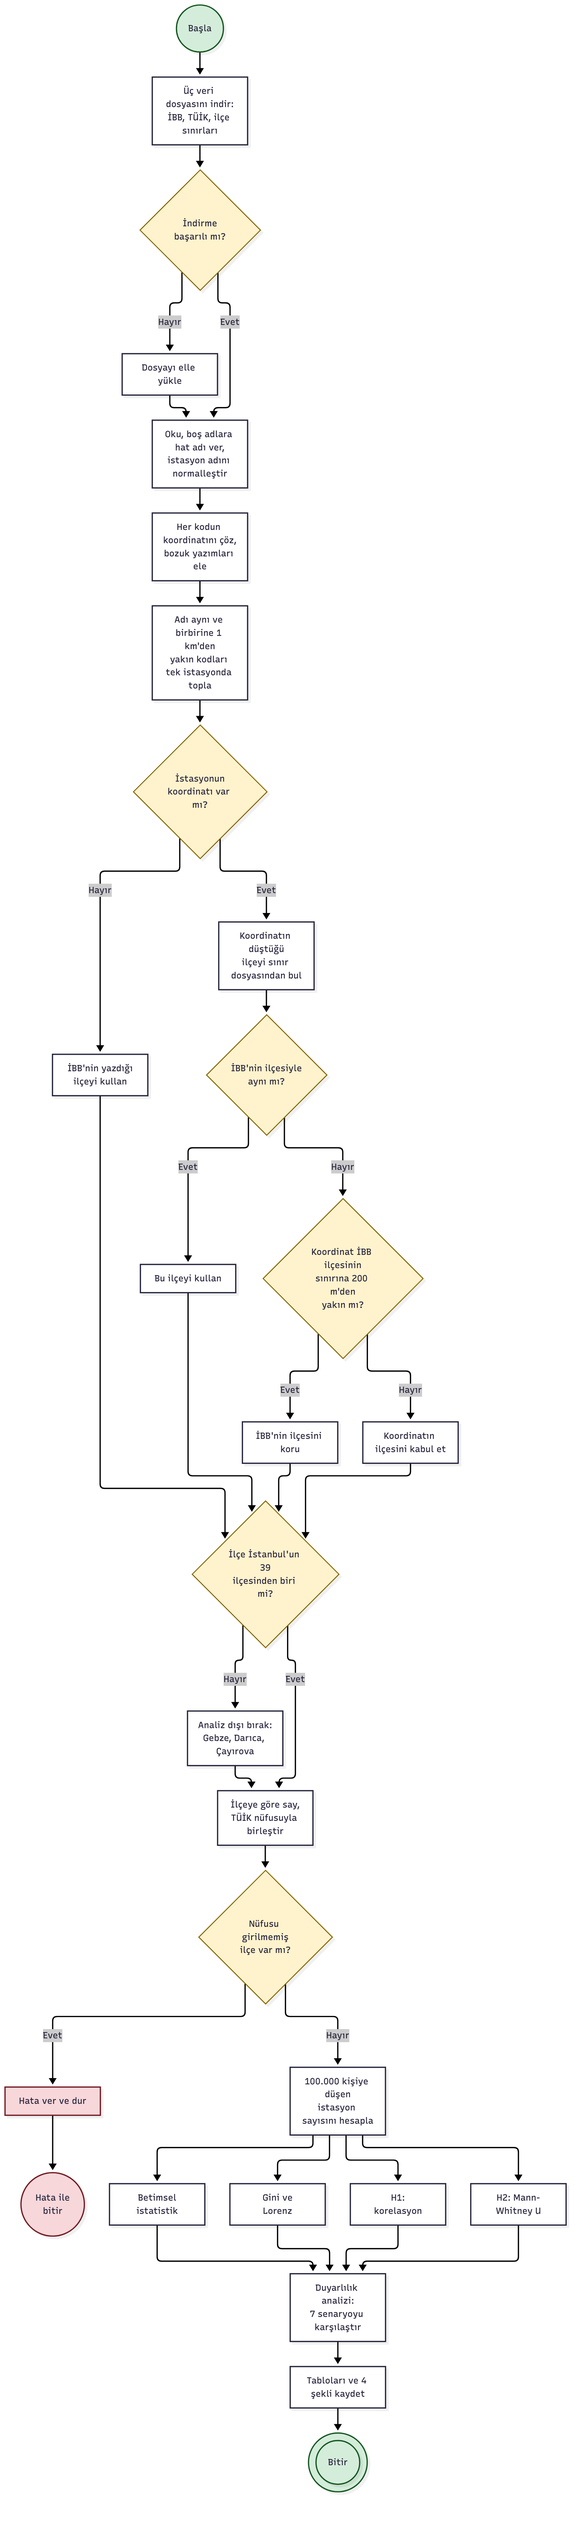
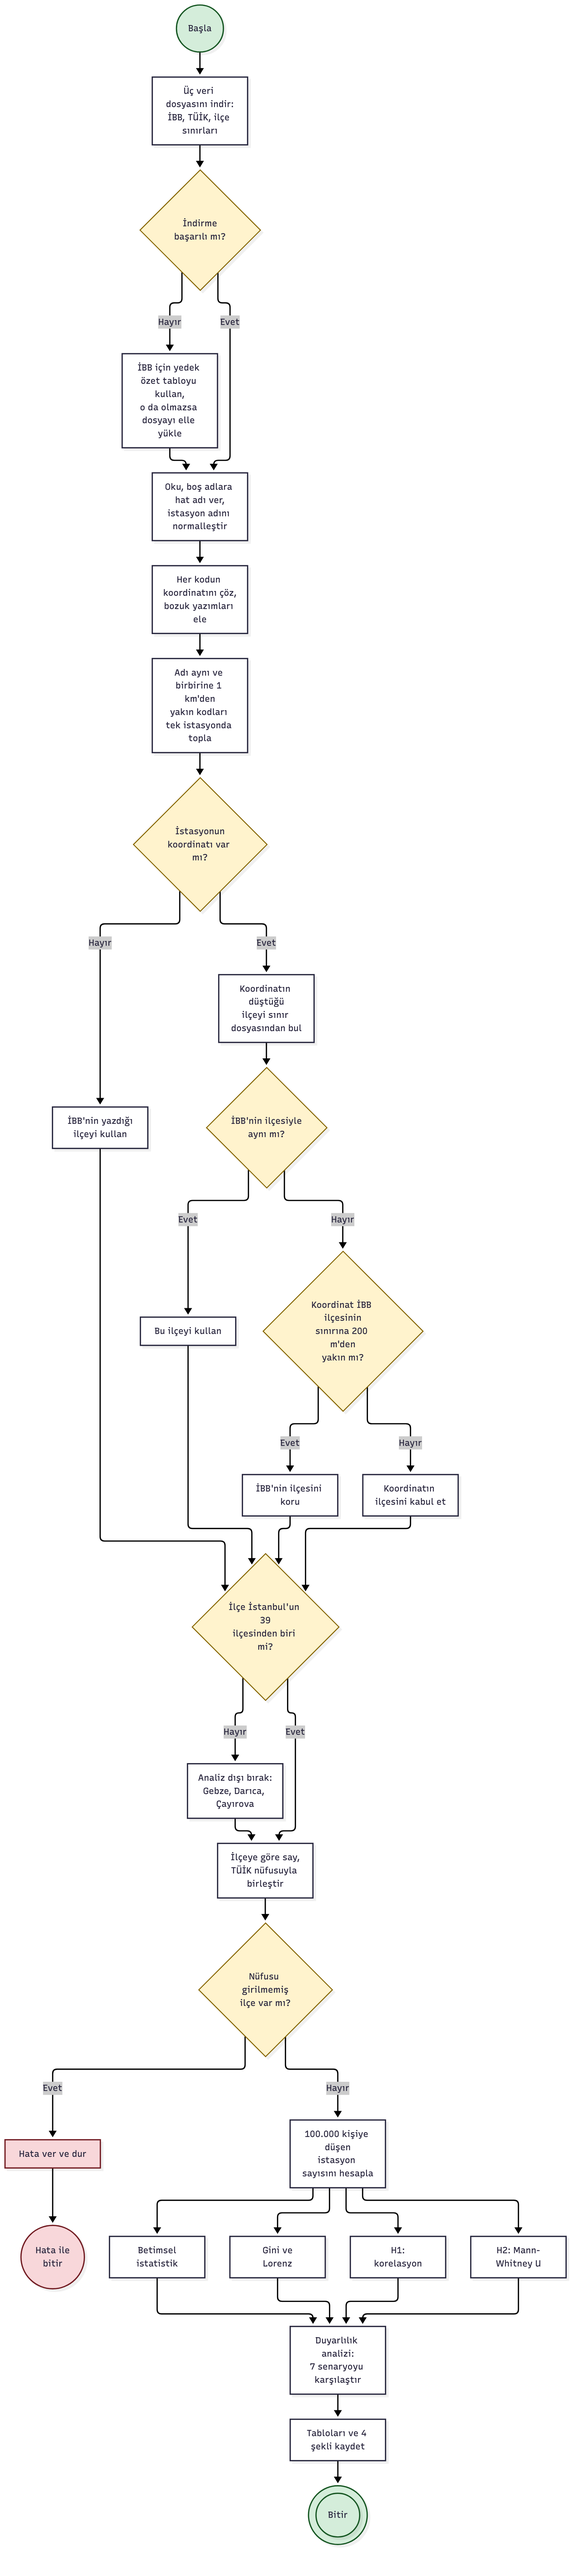
README, veri/README ve UML: yedek özet tablo, Colab'da İBB bağlantı sorunu belgelendi (#16)

diff --git a/README.md b/README.md
@@ -188,7 +188,9 @@ Yöntem, literatür taraması ilerledikçe değişebilir.
 
 Dosyaların nereden indirildiği, hangi sütunların kullanıldığı ve verideki sorunlar
 [`veri/README.md`](veri/README.md) dosyasında yazıyor. Ham veri dosyaları büyük olduğu için depoya
-yüklenmedi; not defteri bunları kaynağından kendisi indiriyor.
+yüklenmedi; not defteri bunları kaynağından kendisi indiriyor. İBB sunucusuna ulaşılamazsa kullanılmak üzere, İBB
+dosyasının kullandığım altı sütununun satır sayılarıyla özetlenmiş hâli depoda duruyor
+([`veri/istasyon_ozet.csv`](veri/istasyon_ozet.csv), 33 KB).
 
 ## 11. Etik
 
@@ -204,7 +206,9 @@ yapılmıyor, bu yüzden katılımcı onamı ve etik kurul izni gerektiren bir d
   yılı ve lisansı yukarıdaki tabloda ve [`veri/README.md`](veri/README.md) dosyasında yazıyor. Bu
   çalışma İBB, TÜİK, OpenStreetMap ya da geoBoundaries tarafından onaylanmamıştır.
 - **Veri izinsiz yeniden yayımlanmıyor.** Ham dosyalar ve ilçe sınırları depoya yüklenmedi; yerine indirme
-  bağlantısı verildi (bkz. [`veri/README.md`](veri/README.md)).
+  bağlantısı verildi (bkz. [`veri/README.md`](veri/README.md)). Depoda yalnızca İBB dosyasının altı
+  sütununun özeti (kopyalamaya ve uyarlamaya kaynak gösterilerek izin veren İBB Açık Veri Lisansı
+  kapsamında, 33 KB) ve TÜİK'ten alınan 39 nüfus değeri var.
 - **Depoda kişisel bilgi tutulmuyor.** Öğrenci numarası, telefon ve e-posta gibi bilgiler depoya
   konmuyor.
 - **Gizli bilgi yok.** Depoda ve Colab not defterinde şifre, API anahtarı ya da erişim anahtarı
@@ -415,8 +419,7 @@ nüfus değil, ilçenin kent merkezine ve istihdam alanlarına göre konumu olab
 **Google Colab'da (önerilen):** Üstteki *Colab'da aç* düğmesine ya da [şu bağlantıya](https://colab.research.google.com/github/yunusyegen/istanbul-rayli-sistem-erisim/blob/main/analiz/analiz.ipynb) tıklayın,
 sonra *Çalışma zamanı → Tümünü çalıştır* deyin. Defter üç veri dosyasını kaynağından kendisi indiriyor
 (yaklaşık yarım dakika) ve sonuçları tek bir `sonuclar.zip` dosyası olarak indirtiyor. Hiçbir hesaba
-giriş yapılmıyor, Drive'a bağlanılmıyor. Bir indirme başarısız olursa yalnızca o dosyayı elle seçmeniz
-isteniyor.
+giriş yapılmıyor, Drive'a bağlanılmıyor. İBB sunucusuna ulaşılamazsa (Colab'daki ilk denememde bağlanılamadı) defter depodaki yedek özet tabloyu (`veri/istasyon_ozet.csv`) kullanıyor ve sonuçlar aynı çıkıyor. Başka bir indirme başarısız olursa yalnızca o dosyayı elle seçmeniz isteniyor.
 
 **Kendi bilgisayarınızda:** Depoyu klonlayın, `pip install pandas numpy scipy matplotlib shapely jupyter`
 ile kütüphaneleri kurun ve `analiz/analiz.ipynb` dosyasını Jupyter'de çalıştırın. Veri dosyaları yoksa
@@ -434,6 +437,7 @@ istanbul-rayli-sistem-erisim/
 ├── veri/
 │   ├── README.md           veri kaynakları, lisanslar ve indirme bağlantıları
 │   ├── ilce_nufus.csv      39 ilçenin yakası ve TÜİK nüfusu
+│   ├── istasyon_ozet.csv   İBB verisinin altı sütununun özeti (yedek)
 │   ├── ham/                indirilen ham dosyalar (depoya yüklenmiyor)
 │   └── islenmis/           ilce_erisim.csv, istasyon_listesi.csv, duyarlilik_analizi.csv
 ├── analiz/
@@ -477,7 +481,7 @@ Bu çıktı tamamlandı (bkz. 13. İlk bulgular).
 | 3 | Veri kaynakları belirlendi, İBB ve TÜİK dosyaları indirildi |
 | 4 | GitHub deposu kuruldu, README yazıldı, veri temizlendi ve ilk analiz yapıldı, 15 Issue ile Kanban panosu hazırlandı, 6 kaynak okunup literatür tablosu dolduruldu, Gini katsayısı ve duyarlılık analizi eklendi |
 | 5 | Use Case, Activity ve Class diyagramları hazırlandı ve depoya eklendi |
-| 6 | Not defteri Colab'da tek tıkla çalışacak şekilde yeniden düzenlendi (veriyi kaynağından kendisi indiriyor). İstasyonların ilçesi koordinatla doğrulandı ve 13 belirsiz istasyon sorunu çözüldü (#6). Toplam/ortalama tablosu ve yorum eklendi. Veri güvenliği ve lisans kontrolü yapıldı |
+| 6 | Not defteri Colab'da tek tıkla çalışacak şekilde yeniden düzenlendi (veriyi kaynağından kendisi indiriyor). İstasyonların ilçesi koordinatla doğrulandı ve 13 belirsiz istasyon sorunu çözüldü (#6). Toplam/ortalama tablosu ve yorum eklendi. Veri güvenliği ve lisans kontrolü yapıldı. Defteri gerçek Colab'da denediğimde İBB sunucusuna bağlanılamadığını gördüm, bu yüzden yedek özet tablo eklendi |
 
 ## 19. Proje yönetimi
 

diff --git a/veri/README.md b/veri/README.md
@@ -9,6 +9,9 @@ Bu klasörde verinin nereden geldiği ve nasıl kullanıldığı anlatılıyor.
   bağlantıları kullanın.
 - `islenmis/` : Not defterinin ürettiği tablolar (bkz. 4. bölüm).
 - `ilce_nufus.csv` : 39 ilçenin yakası ve TÜİK nüfusu. Elle dolduruldu.
+- `istasyon_ozet.csv` : İBB dosyasının analizde kullanılan altı sütununun, aynı değerlere sahip satır
+  sayılarıyla özetlenmiş hâli (135.783 satır yerine 382 satır, 33 KB). İBB sunucusuna ulaşılamazsa not
+  defteri bunu kullanıyor.
 
 ## 1. Raylı sistem istasyon verisi (İBB)
 
@@ -41,6 +44,15 @@ Dosyadaki sütunlar:
 Bu projede yolcu sayısı değil, istasyonun kendisi kullanılıyor: adı, hattı, kodu, İBB'nin yazdığı
 ilçe ve koordinatı. Dosyada kişiye ait bilgi yok: kayıtlar istasyon ve gün bazında toplulaştırılmış
 sayılar ile istasyon konumlarından oluşuyor. Ad, kimlik, adres gibi bir alan bulunmuyor.
+
+**Yedek özet tablo.** Not defterini Colab'da ilk denediğimde İBB sunucusuna bağlanılamadı (bu makineden
+aynı adres bir saniyede açılıyor). Hoca da defteri Colab'dan çalıştıracağı için tek bir sunucuya bağımlı
+kalmamak istedim. `istasyon_ozet.csv`, İBB dosyasındaki altı sütunu (`station_name`, `town`, `line`,
+`station_number`, `longitude`, `latitude`) ve her değer kombinasyonunun kaç satırda geçtiğini (`satir_sayisi`)
+içeriyor. Yolcu sayıları ve tarihler yok, bu yüzden kişiye ait bilgi de yok. Not defteri bu tabloyu çoğaltıp
+ham tabloyu geri kuruyor ve sonuçların aynı çıktığını iki yolla doğruladım: tablonun geri kurulmuş hâli ham
+dosyayla her satır için birebir aynı, iki çalıştırmanın çıktı dosyaları da bayt bayt aynı. İBB Açık Veri
+Lisansı kopyalamaya ve uyarlamaya kaynak gösterilerek izin verdiği için bu özeti depoya koydum (5. bölüm).
 
 ### Veride fark ettiğim sorunlar
 
@@ -129,6 +141,7 @@ OpenStreetMap kaynaklı olduğu için birkaç on metre sapabilir.
 | `islenmis/ilce_erisim.csv` | İlçe, yaka, nüfus, istasyon sayısı ve 100.000 kişiye düşen istasyon sayısı |
 | `islenmis/istasyon_listesi.csv` | Analize giren 322 istasyonun her biri: ilçesi, İBB'nin yazdığı ilçe, ilçe kararının dayanağı, sınıra uzaklık, kodları ve hatları |
 | `islenmis/duyarlilik_analizi.csv` | Verdiğim kararları değiştirince sonucun nasıl değiştiği (7 senaryo) |
+| `istasyon_ozet.csv` | İBB dosyasındaki altı sütunun satır sayılarıyla özeti. İBB dosyası okunduğunda defter bunu yeniden üretiyor |
 
 ## 5. Kaynak gösterimi, lisans ve paylaşım özeti
 
@@ -160,7 +173,8 @@ Sonuçların sorumluluğu bana aittir ve bu kurumların görüşünü yansıtmaz
 
 | Dosya | Depoda mı? | Neden |
 |---|---|---|
-| `ham/istasyon_verisi.csv` | Hayır | Boyutu 14 MB. Yukarıdaki bağlantıdan kaynağından indirilebilir |
+| `ham/istasyon_verisi.csv` | Hayır | Boyutu 14 MB. Yukarıdaki bağlantıdan kaynağından indirilebilir. Yerine özeti depoda |
+| `istasyon_ozet.csv` | Evet | İBB dosyasının altı sütununun özeti (33 KB), kaynak gösterilerek. İBB sunucusuna ulaşılamazsa kullanılıyor |
 | `ham/tuik_ilce_nufus.csv` | Hayır | TÜİK dosyasının tamamı yeniden yayımlanmıyor |
 | `ham/ilce_sinirlari.geojson` | Hayır | Boyutu 16 MB ve başkasının verisi. Not defteri kaynağından indiriyor |
 | `ilce_nufus.csv` | Evet | TÜİK'ten alınan 39 ilçenin toplam nüfus değeri, kaynak gösterilerek |

diff --git a/uml/README.md b/uml/README.md
@@ -144,7 +144,7 @@ diyagramdaki her kutunun karşılığı `analiz/analiz.ipynb` içinde bir hücre
 flowchart TB
     BAS((Başla)) --> A["Üç veri dosyasını indir:<br/>İBB, TÜİK, ilçe sınırları"]
     A --> B{"İndirme<br/>başarılı mı?"}
-    B -- Hayır --> B1["Dosyayı elle yükle"]
+    B -- Hayır --> B1["İBB için yedek özet tabloyu kullan,<br/>o da olmazsa dosyayı elle yükle"]
     B -- Evet --> C
     B1 --> C["Oku, boş adlara hat adı ver,<br/>istasyon adını normalleştir"]
     C --> D["Her kodun koordinatını çöz,<br/>bozuk yazımları ele"]
@@ -199,7 +199,8 @@ Altı karar var ve hepsi veriyle çalışırken karşılaştığım gerçek soru
 
 1. **İndirme başarılı mı?** Not defteri üç veri dosyasını kaynağından kendisi indiriyor. Sunucu yanıt
    vermezse ya da yarım dosya gönderirse (İBB sunucusu bir denememde 14 MB'ın 10,8 MB'ında bağlantıyı
-   kesti) dosya elle yükleniyor.
+   kesti, Colab'daki ilk denememde ise hiç bağlanılamadı) İBB dosyası yerine depodaki yedek özet tablo
+   kullanılıyor, o da olmazsa dosya elle yükleniyor.
 2. **İstasyonun koordinatı var mı?** 322 istasyondan 56'sının koordinatı yok ya da kullanılamıyor
    (Excel'de bozulmuş). Onlarda İBB'nin yazdığı ilçe kullanılıyor.
 3. **Koordinatın ilçesi İBB'ninkiyle aynı mı?** 322 istasyondan 234'ünde aynı çıktı. Fark çıkarsa
@@ -245,6 +246,7 @@ classDiagram
         <<abstract>>
         +String ad
         +List adresler
+        +String yedekAdres
         +int enAzBayt
         +String lisans
         +indir() bool
@@ -358,7 +360,7 @@ metodun karşılığı not defterinde bir fonksiyon olarak var; sınıflar bunla
 ### Sınıflar
 
 - **VeriKaynagi** soyut sınıf. Üç veri kaynağının ortak davranışını (adresten indir, oku) ve ortak
-  özelliklerini (adresler, en az beklenen boyut, lisans) tutuyor. Lisans bilgisini sınıfa koydum çünkü
+  özelliklerini (adresler, yedek adres, en az beklenen boyut, lisans) tutuyor. Lisans bilgisini sınıfa koydum çünkü
   dersin kuralı kaynak ve lisansın kayıt altında olmasını istiyor. En az boyut ise sunucu gerçek dosya
   yerine kısa bir hata metni verirse bunu anlamak için.
 - **IBBIstasyonVerisi**, **TUIKNufusVerisi** ve **IlceSiniriVerisi** bu soyut sınıftan türüyor. Üçü de
